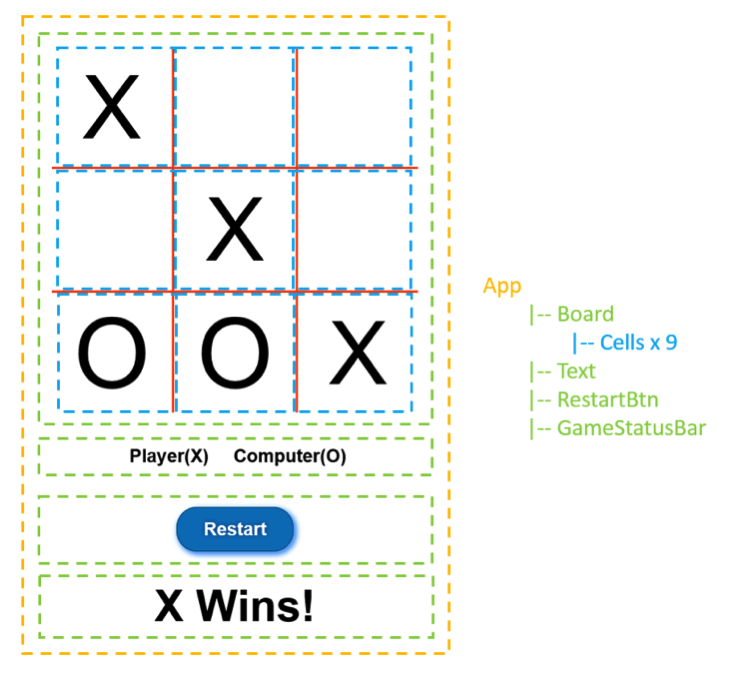
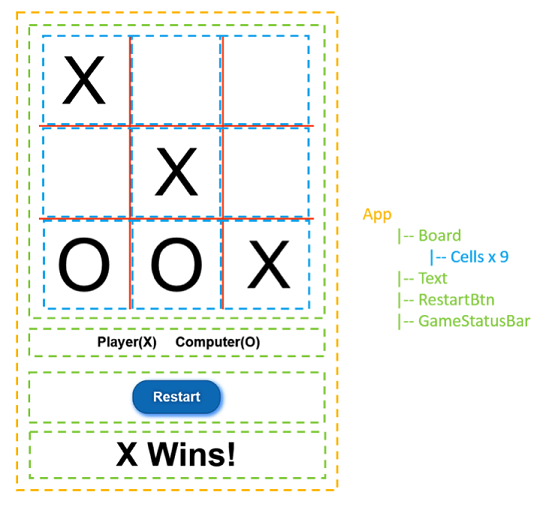
Adjust image

diff --git a/README.md b/README.md
@@ -1,4 +1,4 @@
-This walkthrough illustrates how to adopt TypeScript in an existing React/Babel/Webpack project. We'll start with TicTacToe project written fully in JavaScript in the `TicTacToe_JS` folder as an example. By the end, you will have a TicTacToe project fully written with TypeScript.
+This walkthrough illustrates how to adopt TypeScript in an existing React/Babel/Webpack project. We'll start with a TicTacToe project written fully in JavaScript in the `TicTacToe_JS` folder as an example. By the end, you will have a TicTacToe project fully written with TypeScript.
 
 If you are starting a new React project instead of converting one, you can use [this tutorial](https://github.com/Microsoft/TypeScript-Handbook/blob/master/pages/tutorials/React.md).
 
@@ -11,7 +11,7 @@ Adopting TypeScript in any project can be broken down into 2 phases,
 Before we dive into TypeScript adoption, let's take a look at the structure of the TicTacToe app. It contains a few components and looks like below with or without TypeScript.
 
 <p align="center">
-[[/image/components.png]]
+    <img src ="image/components.png"/>
 </p>
 
 As shown in `package.json`, the app already includes React/ReactDOM, Webpack as bundler & task runner, and [babel-loader](https://github.com/babel/babel-loader) Webpack plugin to use Babel for ES6 and JSX transpilation. The project has the below overall layout before we adopt TypeScript:
